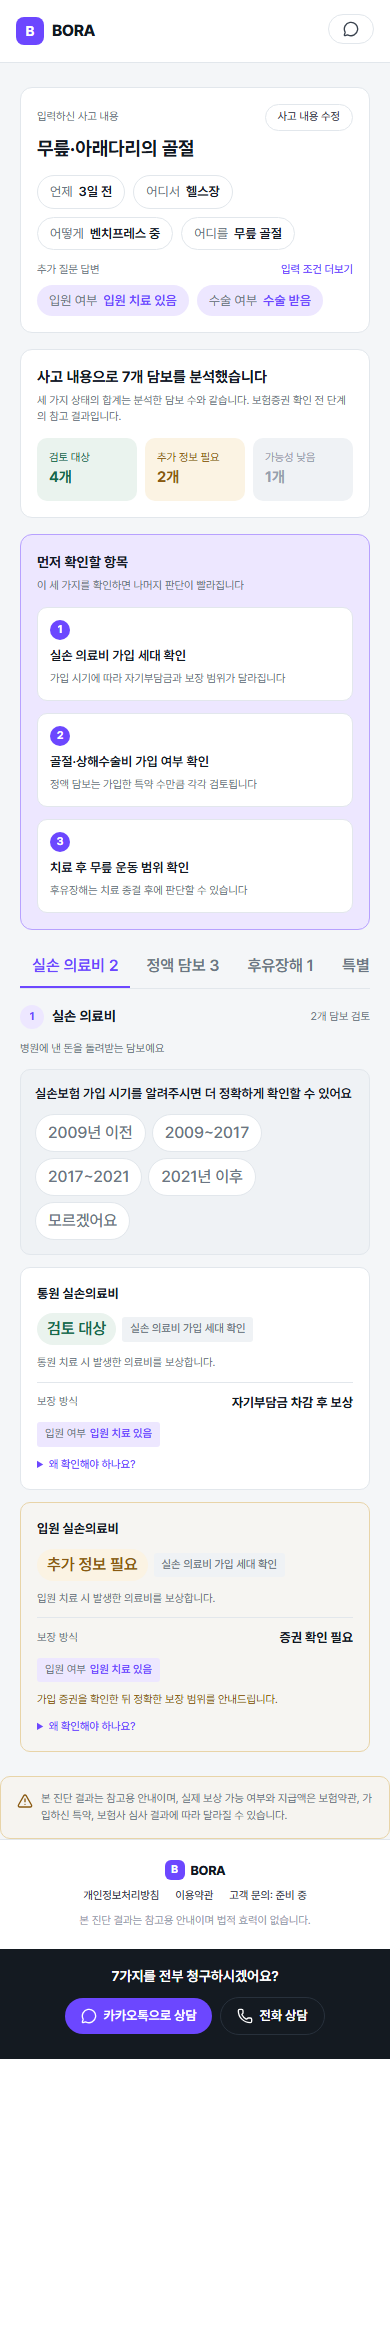
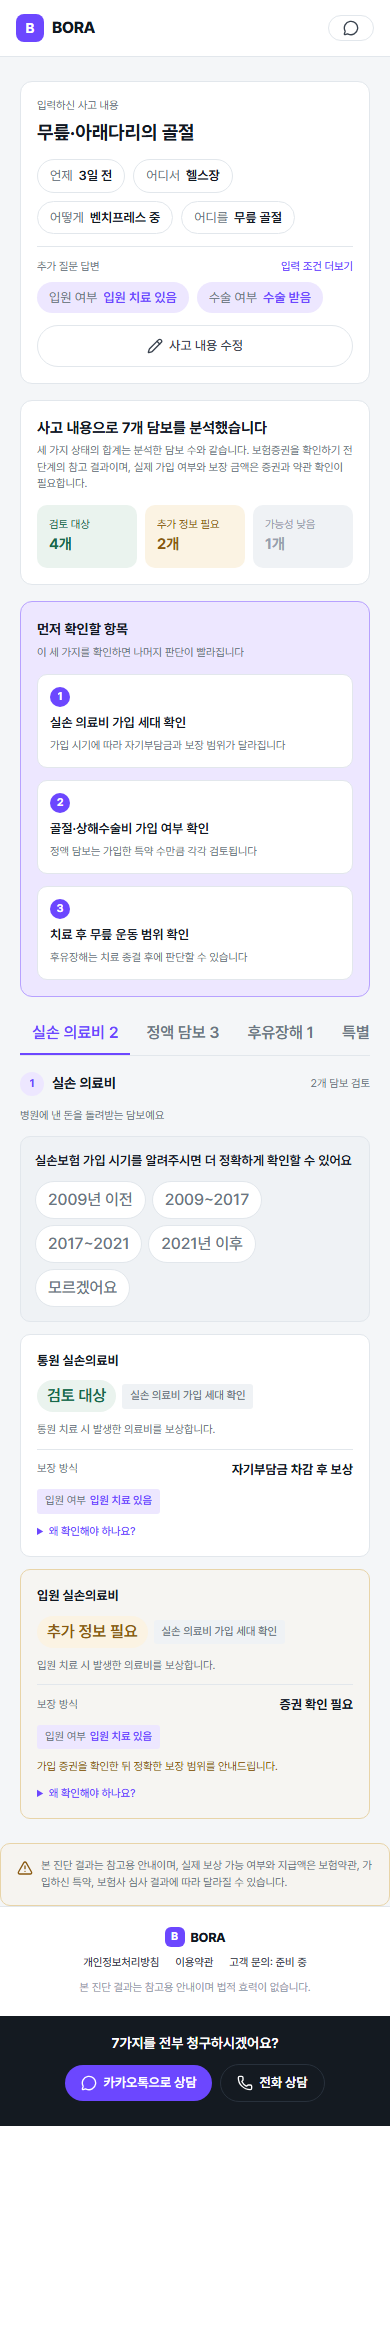
fix(SPEC-B2C-RESULT-001): D3 3차 — 상단 탑바 높이·구분선·Mobile 편집 버튼 배치 추가 정정
사용자 요청으로 신규 5화면 잔여 pixel 편차의 원인을 계속 조사해 3건을
추가로 발견·수정했다.

1. 상단 탑바(ResultTopBarCta) 높이가 design.md 목업보다 항상 10px 이상
   컸다 — role="status" 안내 span이 flex-col 안에서 빈 문자열이어도
   gap만큼 공간을 차지하고 있었다(이전 h-0 시도는 span이 flex-col의
   inline 자식이라 효과가 없었음을 재확인). 안내 span을 absolute로 빼서
   메시지 유무와 무관하게 탑바 높이에 전혀 영향을 주지 않게 했다. 버튼도
   design.md 크기에 맞춰 살짝 줄였다(py-1.5→py-1, text-body-s→text-label-s).
   → Desktop "02" 입력 요약 카드 top 편차가 11px→1px로, 아예 violation
   목록에서 빠졌다.
2. "입력하신 사고 내용" 카드 안, 사실 칩 목록과 "추가 질문 답변" 사이에
   구분선(border-t)이 design.md 02/M02 목업에 있는데 빠져 있었다 — 추가.
3. Mobile에서 "사고 내용 수정" 버튼은 Desktop과 달리(상단 라벨과 같은 줄)
   카드 맨 아래 전체폭 별도 행(아이콘+텍스트)으로 배치된다는 걸
   design.md M02 목업 직접 대조로 확인 — 같은 onClick을 공유하는 버튼을
   `hidden md:inline-flex`(Desktop)/`flex md:hidden`(Mobile) 두 벌로
   나눠 반응형 배치했다.
4. 집계 배너(ResultAggregateBanner) 부제 문구가 design.md 목업과 실제로
   다른 텍스트였다(구현이 더 짧았음) — 목업 원문으로 정정했다(단, 이
   변경만으로는 배너 자체의 높이 편차 44px는 해소되지 않았다 — 아래
   참고).

효과(pnpm visual:verify 재측정, 전체 15화면 재실행):
- Desktop "02": 입력 요약 카드 top/height violation 완전 해소.
- Mobile 4화면 공통: 입력 요약 카드 height 편차 Δ112~114px → Δ55~57px로
  절반 이상 감소, top 편차 Δ14~15px → Δ8~9px로 감소.
- 전체 violation 45건 → 44건.

여전히 미해결(원인 미확정, 추측성 padding 조정으로 억지로 맞추지 않음):
- 집계 배너(ResultAggregateBanner) 자체 height(디자인 224px vs 구현
  179~185px, Δ42~48px) — design/exports 이미지를 픽셀 단위로 직접
  스캔해 카드 경계·통계 박스 경계까지는 정확히 특정했으나, 제목/부제/
  그리드 사이 여백이 왜 그만큼 차이 나는지는 확정하지 못했다.
- Mobile 입력 요약 카드 height 잔여 Δ55~57px, 이로 인한 하위 요소
  (집계 배너·먼저 확인할 항목·카테고리 탭) top 편차 cascading.
[…]

diff --git a/components/result/result-input-summary.tsx b/components/result/result-input-summary.tsx
@@ -1,6 +1,7 @@
 "use client";
 
 import * as React from "react";
+import { Pencil } from "lucide-react";
 
 import type { FactChip, InputAccidentSummary } from "@/lib/diagnosis/types";
 import { ResultInputConditionDisclosure } from "./result-input-condition-disclosure";
@@ -19,6 +20,23 @@ import { ResultInputConditionDisclosure } from "./result-input-condition-disclos
 // ("입력 조건 더보기")를 "추가 질문 답변" 라벨과 같은 줄 우측에 배치 — 이전에
 // ResultFinalCta(페이지 최하단)에 있던 것을 옮겨온 것이다. rawInput/answers는
 // D1에서 이미 ResultView가 분류해 둔 값을 그대로 이어받는다.
+//
+// SPEC-B2C-RESULT-001 D3(2차, Mobile 전용 재배치) — design.md M02 목업을
+// 직접 대조한 결과, "사고 내용 수정" 버튼 배치는 Desktop과 Mobile이 서로
+// 다르다: Desktop은 상단 라벨과 같은 줄 우측(위 ①), Mobile은 카드 맨 아래
+// 전체폭 별도 행(아이콘+텍스트, 가운데 정렬)이다. 하나의 버튼을 CSS로
+// 재배치하는 대신(레이아웃 형태 자체가 인라인 pill vs 전체폭 행으로 달라
+// margin/padding만으로 표현 불가), 기존 코드베이스가 이미 쓰는 "hidden md:X"
+// 반응형 표시 패턴(예: result-cta-bar.tsx의 상담 버튼 텍스트)을 그대로 따라
+// 같은 onClick 핸들러를 공유하는 버튼 2개를 렌더링한다 — 상단 버튼은
+// `hidden md:inline-flex`(Desktop 전용), 하단 버튼은 `flex md:hidden`
+// (Mobile 전용).
+function useEditInputHandler(): () => void {
+  return React.useCallback(() => {
+    // 사고 내용 수정 기능은 이 milestone의 범위 밖이다(plan.md §F M4) —
+    // 후속 milestone/SPEC이 실제 편집 흐름을 연결하기 전까지 no-op stub.
+  }, []);
+}
 
 interface ResultInputSummaryProps {
   inputSummary: InputAccidentSummary;
@@ -38,6 +56,8 @@ export function ResultInputSummary({
   rawInput,
   answers,
 }: ResultInputSummaryProps) {
+  const handleEditInput = useEditInputHandler();
+
   return (
     <section
       data-testid="result-input-summary"
@@ -49,11 +69,8 @@ export function ResultInputSummary({
         <button
           type="button"
           data-testid="result-edit-input"
-          onClick={() => {
-            // 사고 내용 수정 기능은 이 milestone의 범위 밖이다(plan.md §F M4) —
-            // 후속 milestone/SPEC이 실제 편집 흐름을 연결하기 전까지 no-op stub.
-          }}
-          className="inline-flex shrink-0 items-center gap-1.5 rounded-full border border-app-line px-3 py-1 text-label-s font-medium text-bora-ink-2 transition-colors hover:bg-app-surface-sub"
+          onClick={handleEditInput}
+          className="hidden shrink-0 items-center gap-1.5 rounded-full border border-app-line px-3 py-1 text-label-s font-medium text-bora-ink-2 transition-colors hover:bg-app-surface-sub md:inline-flex"
         >
           사고 내용 수정
         </button>
@@ -75,7 +92,10 @@ export function ResultInputSummary({
         })}
       </dl>
 
-      <div className="mt-3 flex items-center justify-between gap-2">
+      {/* SPEC-B2C-RESULT-001 D3(2차) — design.md 02/M02 목업 대조 결과, 사실
+          칩 목록과 "추가 질문 답변" 사이에 구분선(border-t)이 있다 — Desktop/
+          Mobile 둘 다 동일하게 존재하며, 이전에는 빠져 있었다. */}
+      <div className="mt-3 flex items-center justify-between gap-2 border-t border-app-line pt-3">
         <p className="text-label-s text-bora-ink-3">추가 질문 답변</p>
         <ResultInputConditionDisclosure rawInput={rawInput} answers={answers} />
       </div>
@@ -92,6 +112,16 @@ export function ResultInputSummary({
           ))}
         </div>
       ) : null}
+
+      <button
+        type="button"
+        data-testid="result-edit-input"
+        onClick={handleEditInput}
+        className="mt-3 flex w-full items-center justify-center gap-1.5 rounded-full border border-app-line py-2.5 text-body-s font-medium text-bora-ink-2 transition-colors hover:bg-app-surface-sub md:hidden"
+      >
+        <Pencil className="size-4 shrink-0" aria-hidden="true" />
+        사고 내용 수정
+      </button>
     </section>
   );
 }

diff --git a/components/result/result-cta-bar.tsx b/components/result/result-cta-bar.tsx
@@ -109,21 +109,23 @@ export function ResultTopBarCta() {
         <span className="text-base font-extrabold tracking-tight text-bora-ink">BORA</span>
       </div>
 
-      <div className="flex flex-col items-end gap-1">
+      <div className="relative flex items-center">
         <button
           {...buttonProps}
           aria-label="카카오톡 상담"
           data-testid="result-cta-top"
-          className="flex items-center gap-1.5 rounded-full border border-app-line px-3.5 py-1.5 text-body-s font-medium text-bora-ink-2 transition-colors hover:bg-app-surface-sub md:px-4"
+          className="flex items-center gap-1.5 rounded-full border border-app-line px-3.5 py-1 text-label-s font-medium text-bora-ink-2 transition-colors hover:bg-app-surface-sub md:px-4"
         >
           <MessageCircle className="size-4 shrink-0" aria-hidden="true" />
           <span className="hidden md:inline">카카오톡 상담</span>
         </button>
+        {/* SPEC-B2C-RESULT-001 D3(2차) — absolute로 빼서 메시지 유무와 무관하게
+            탑바 높이(=design.md 02 목업 기준 56px)에 전혀 영향을 주지 않는다. */}
         <span
           role="status"
           aria-live="polite"
           data-testid="result-cta-top-notice"
-          className={noticeClassName(message, "text-label-s text-bora-warn")}
+          className="absolute right-0 top-full mt-1 whitespace-nowrap text-label-s text-bora-warn"
         >
           {message ?? ""}
         </span>

diff --git a/components/result/result-aggregate-banner.tsx b/components/result/result-aggregate-banner.tsx
@@ -20,7 +20,8 @@ export function ResultAggregateBanner({ aggregate }: ResultAggregateBannerProps)
         사고 내용으로 {aggregate.total}개 담보를 분석했습니다
       </h2>
       <p className="mt-1 text-label-s text-bora-ink-3 md:text-body-s">
-        세 가지 상태의 합계는 분석한 담보 수와 같습니다. 보험증권 확인 전 단계의 참고 결과입니다.
+        세 가지 상태의 합계는 분석한 담보 수와 같습니다. 보험증권을 확인하기 전 단계의 참고
+        결과이며, 실제 가입 여부와 보장 금액은 증권과 약관 확인이 필요합니다.
       </p>
       <div className="mt-3 grid grid-cols-3 gap-2 md:gap-3">
         <div data-testid="result-aggregate-review" className="rounded-[10px] bg-bora-ok-soft p-3">
